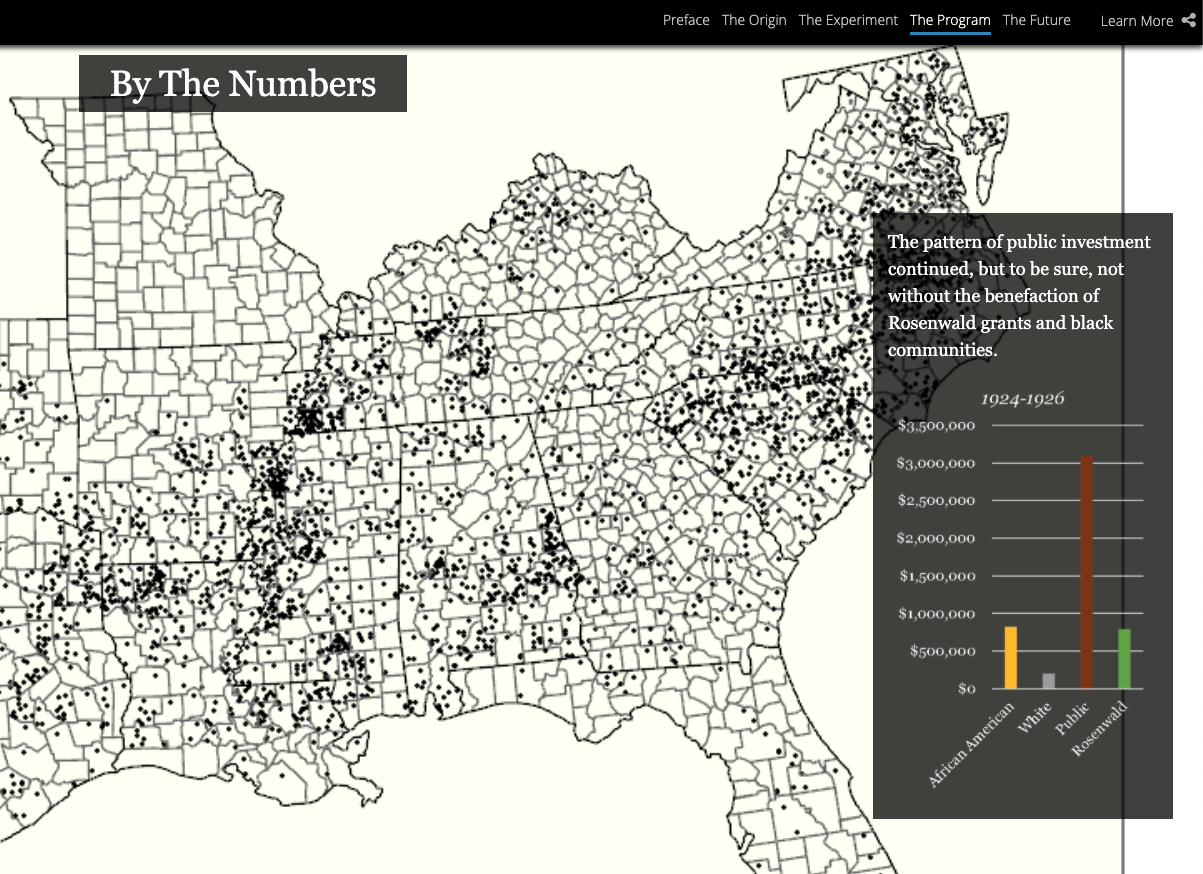
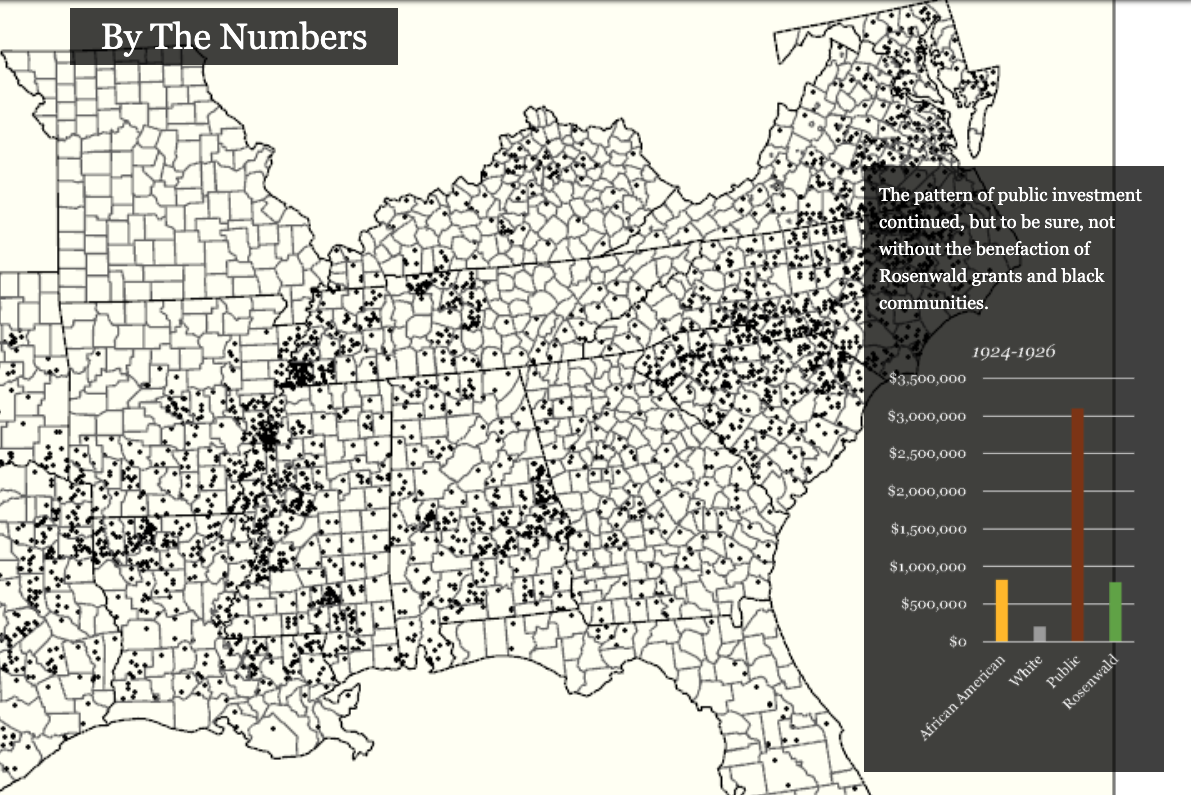
updated map portfolio

diff --git a/index.html b/index.html
@@ -322,13 +322,13 @@
             </a>
           </div>
           <div class="col-sm-4">
-            <a class="portfolio-box" target='blank' href="https://itspangler.github.io/Adereon/map/index.html">
+            <a class="portfolio-box" target='blank' href="https://nthp.maps.arcgis.com/apps/Cascade/index.html?appid=7541c163fb20486598969c7acb559663">
               <img class="transp-75 img-fluid img-thumbnail" src="assets/img/portfolio/thumbnails/rosenwald-story-crop.png" alt="map by ian spangler" />
               <div class="portfolio-box-caption">
                 <div class="project-category text-white-50">Category</div>
-                <div class="project-name">Fantasy Cartography</div><br>
+                <div class="project-name">The Rosenwald Schools</div><br>
                 <div class="col-lg-8">
-                  <p class="small">The known world of Adereon hasn't been mapped—until now. A fantasy cartography project in collaboration with Nate Jennings (Leaflet, QGIS).</p>
+                  <p class="small">Narrating the story of the Rosenwald Schools, through words, figures, and maps . In collaboration with the National Trust for Historic Preservation (ArcOnline, ArcGIS Pro, ArcGIS StoryMaps).</p>
                 </div>
               </div>
             </a>
